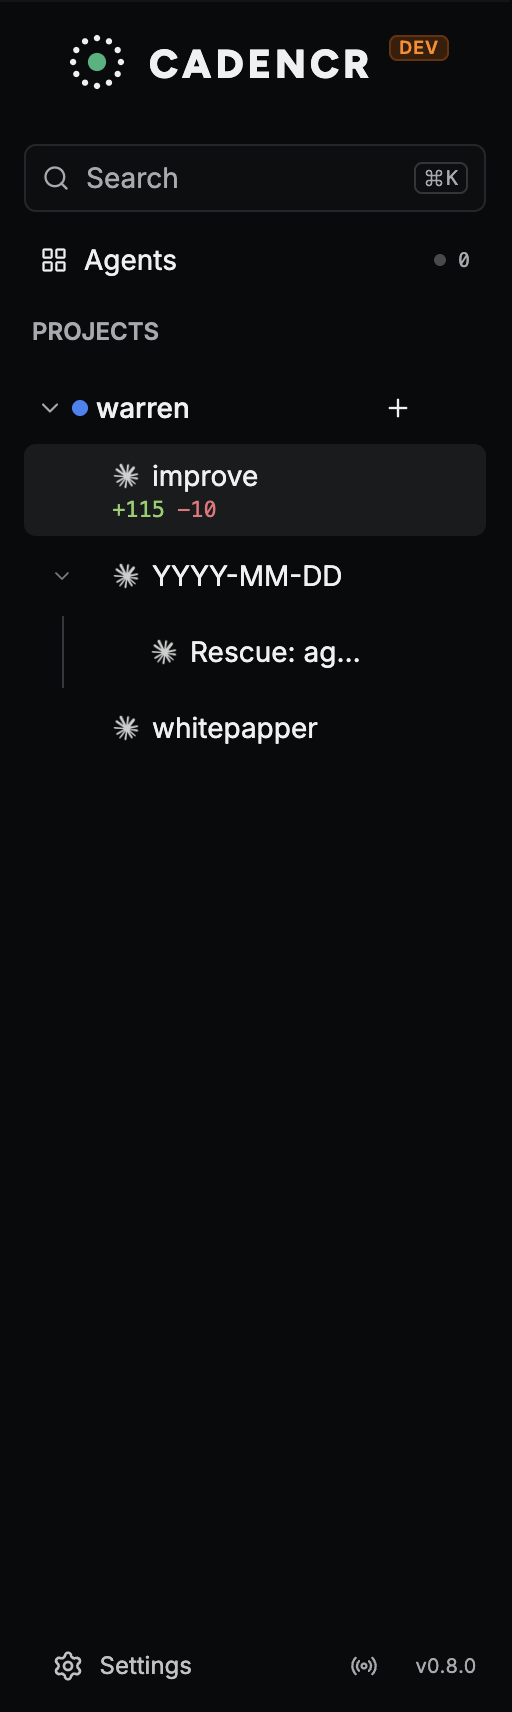
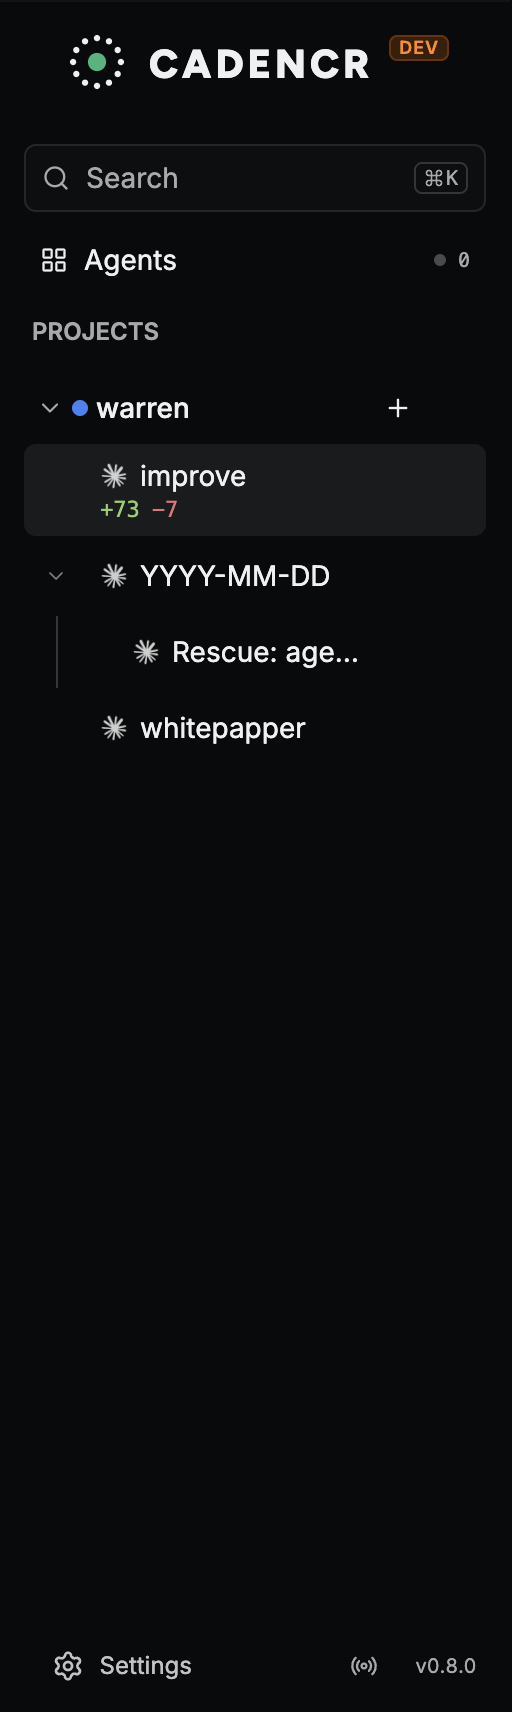
fix(sidebar): compact hierarchy gutter

diff --git a/packages/desktop/src/components/FeatureSubtree.tsx b/packages/desktop/src/components/FeatureSubtree.tsx
@@ -25,7 +25,7 @@ export function FeatureSubtree({
       type="button"
       variant="ghost"
       size="icon-xs"
-      className="size-3.5 rounded-sm text-muted-foreground/70 hover:text-foreground"
+      className="size-3 rounded-sm text-muted-foreground/70 hover:text-foreground"
       aria-label={expanded ? "Collapse child sessions" : "Expand child sessions"}
       onClick={(event) => {
         event.stopPropagation();
@@ -40,10 +40,10 @@ export function FeatureSubtree({
     <>
       {renderFeature(node.feature, control)}
       {expanded && hasChildren && (
-        <div data-feature-subtree-children={node.feature.id} className="relative ml-[11px] pl-2">
+        <div data-feature-subtree-children={node.feature.id} className="relative ml-2 pl-2">
           {/* Guide rail centered under the parent chevron:
-              pl-3 (12px) + half of size-3.5 (7px) = 19px from the row edge.
-              ml-[11px] + left-2 (8px) = 19px. Shallow indent so deep chains
+              pl-3 (12px) + half of w-2 (4px) = 16px from the row edge.
+              ml-2 (8px) + left-2 (8px) = 16px. Shallow indent so deep chains
               don't march off to the right. */}
           <span aria-hidden className="absolute inset-y-0 left-2 w-px bg-sidebar-border" />
           {node.children.map((child) => (

diff --git a/packages/desktop/src/components/ProjectFeatures.test.tsx b/packages/desktop/src/components/ProjectFeatures.test.tsx
@@ -300,8 +300,8 @@ describe("ProjectFeatures", () => {
 
     expect(parentGutter).not.toBeNull();
     expect(leafGutter).not.toBeNull();
-    expect(parentGutter).toHaveClass("size-3.5");
-    expect(leafGutter).toHaveClass("size-3.5");
+    expect(parentGutter).toHaveClass("w-2");
+    expect(leafGutter).toHaveClass("w-2");
     expect(
       within(parentGutter as HTMLElement).getByRole("button", {
         name: "Collapse child sessions",

diff --git a/packages/desktop/src/components/ProjectFeatureRow.tsx b/packages/desktop/src/components/ProjectFeatureRow.tsx
@@ -178,7 +178,7 @@ export const ProjectFeatureRow = memo(function ProjectFeatureRow({
           <SidebarShortcutBadge ref={badgeRef} />
           <div
             data-feature-hierarchy-gutter
-            className="flex size-3.5 shrink-0 items-center justify-center"
+            className="flex h-3 w-2 shrink-0 items-center justify-center"
           >
             {hierarchyControl}
           </div>
